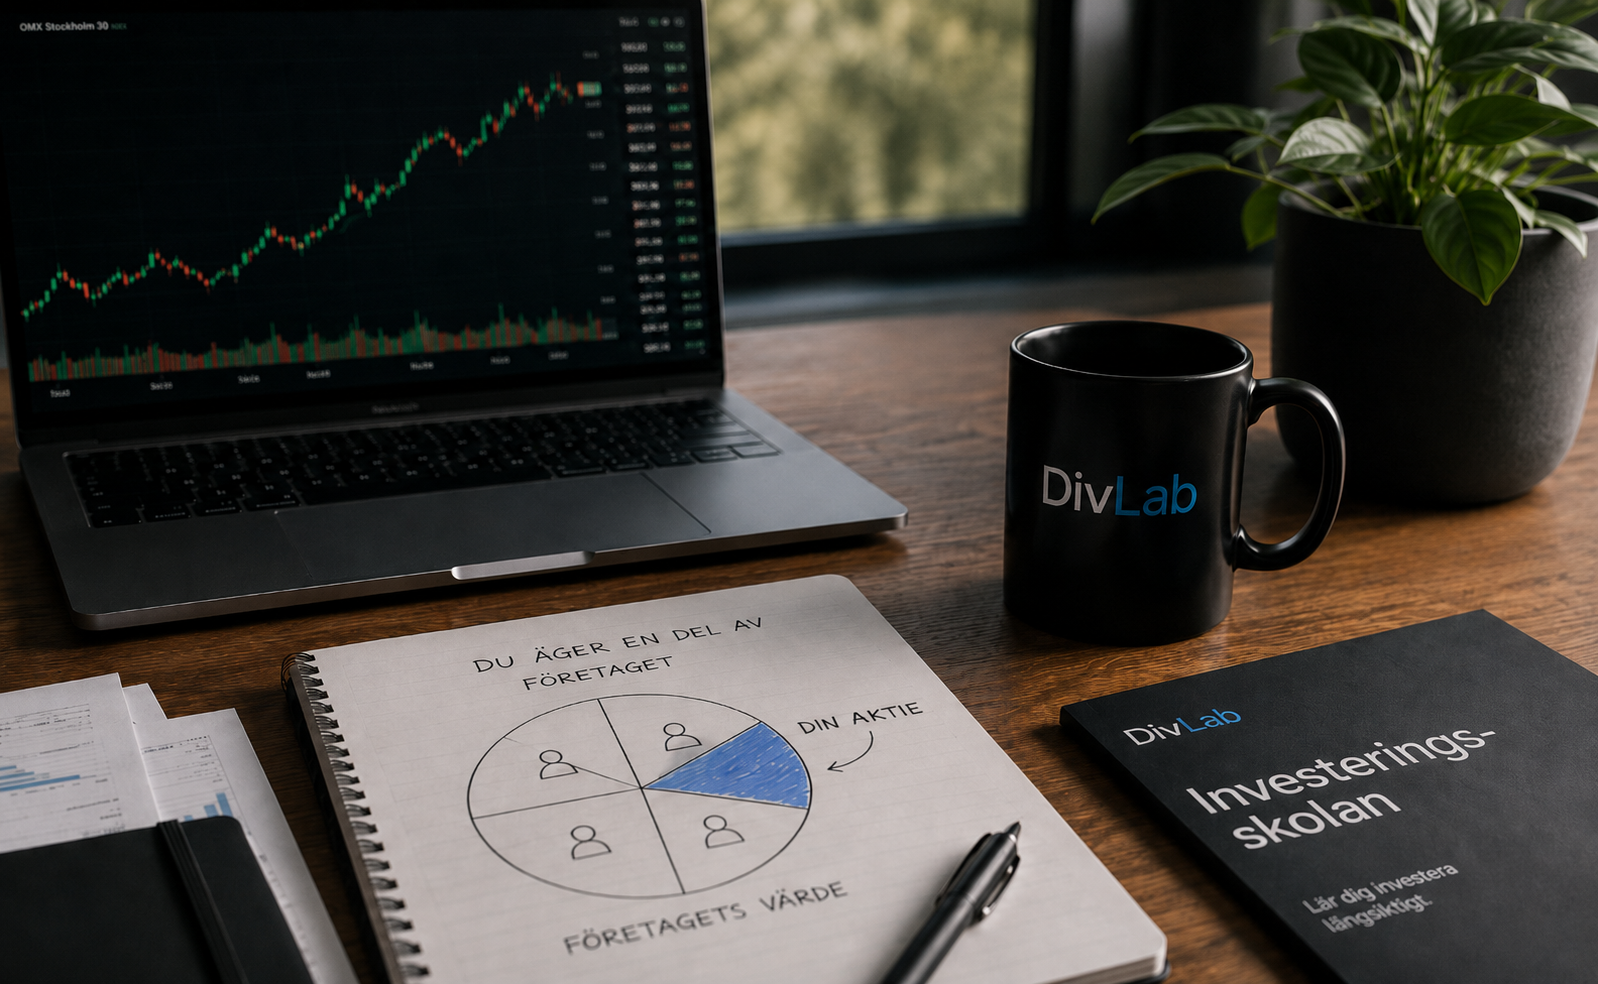
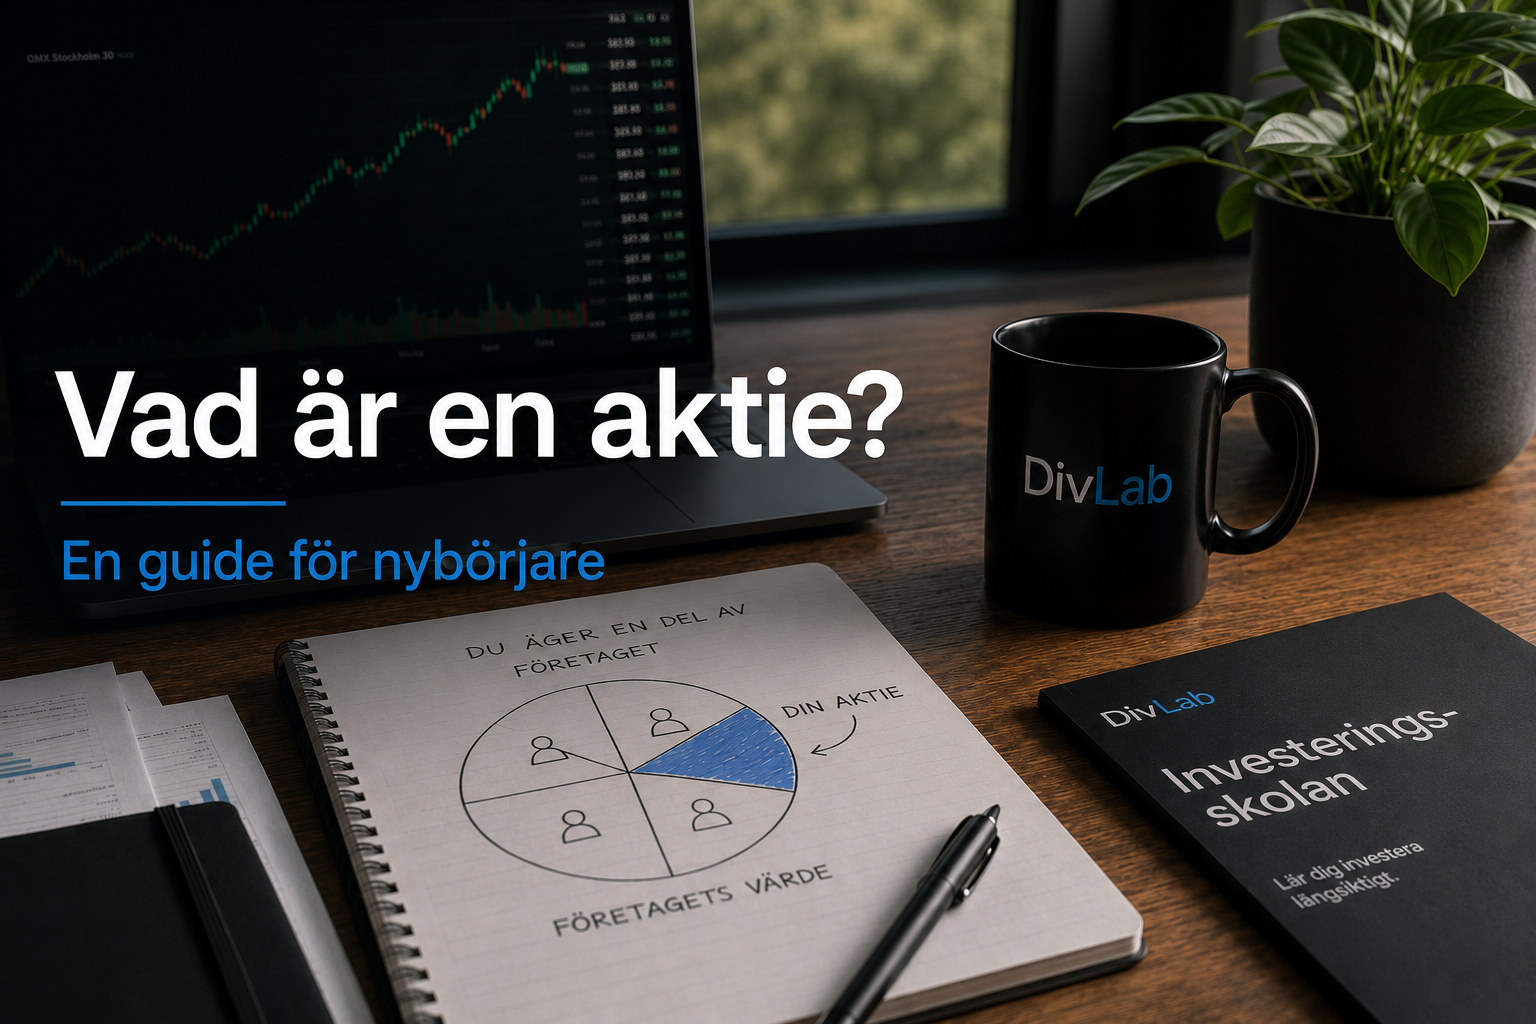
Update Learning article cover images

diff --git a/data/learning/articles/borja-investera-pa-borsen.ts b/data/learning/articles/borja-investera-pa-borsen.ts
@@ -12,7 +12,7 @@ const article: LearningArticle = {
   level: "Nybörjare",
   publishedAt: "2026-07-14",
   updatedAt: "2026-07-14",
-  coverImage: "/learning/borja-investera-pa-borsen.webp",
+  coverImage: "/learning/borja-investera-pa-borsen.png",
   coverImageAlt:
     "Illustration av vägen från ekonomisk grund till ett enkelt och riskspritt börssparande.",
   showDefaultDisclaimer: false,